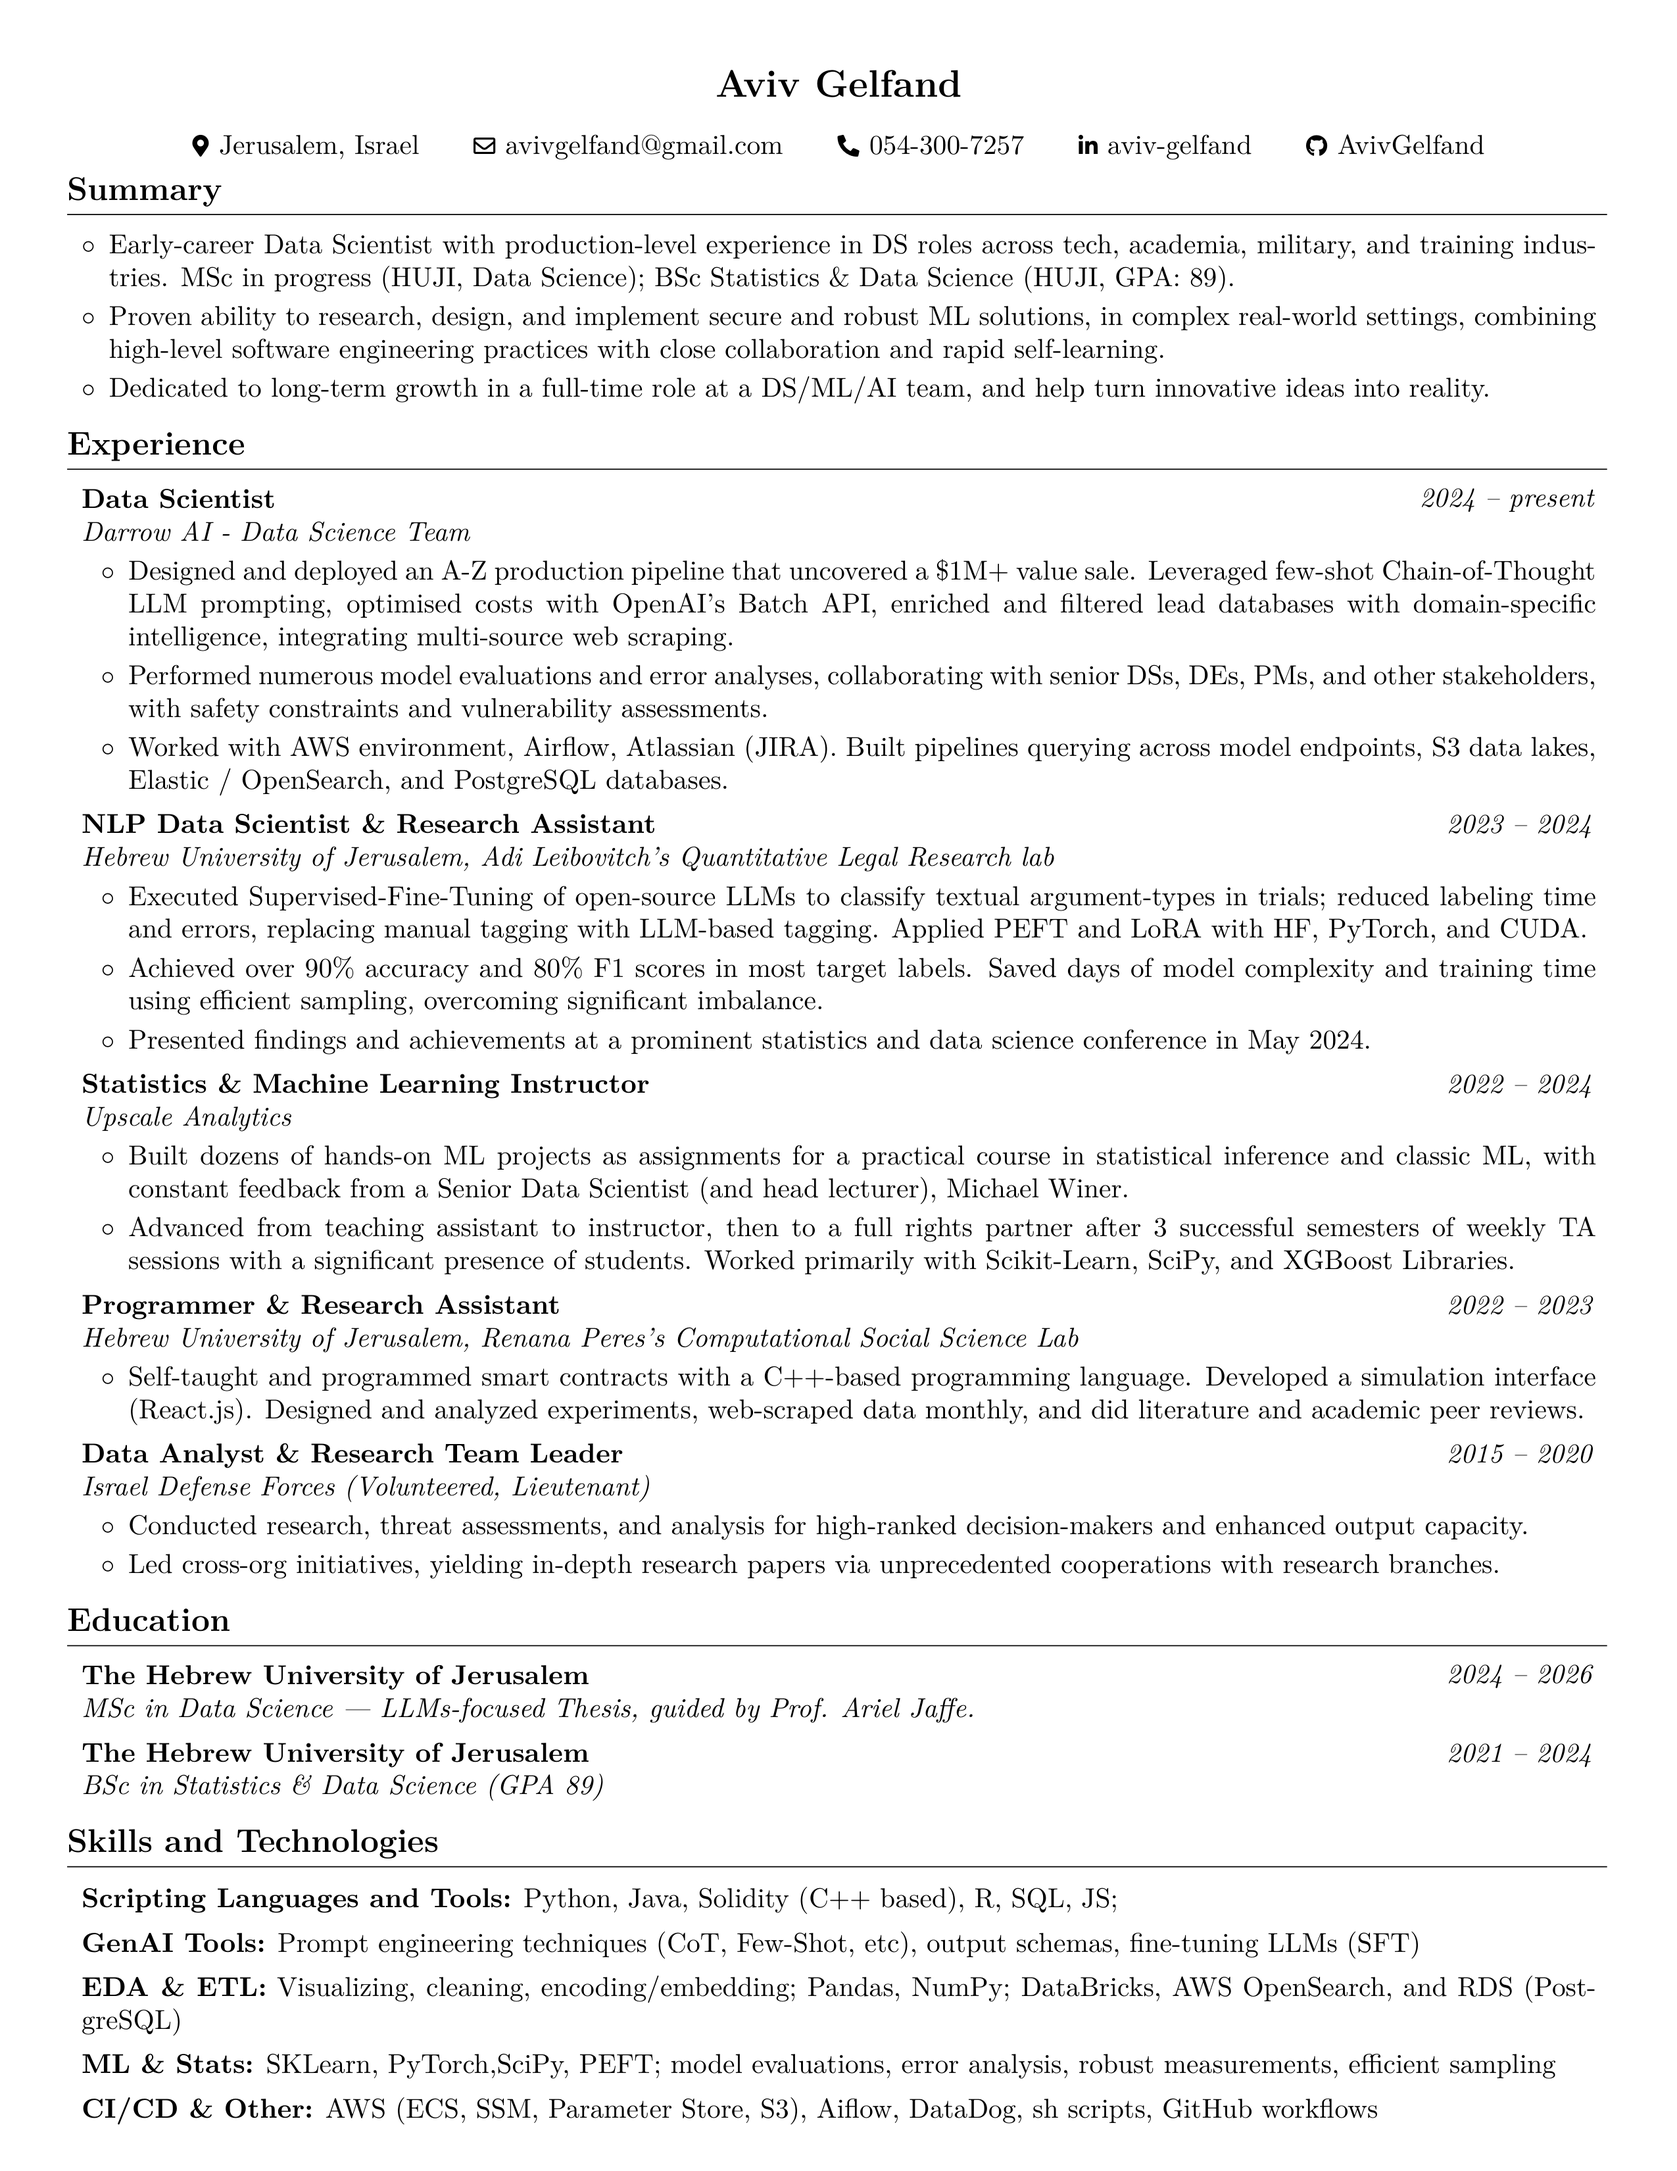
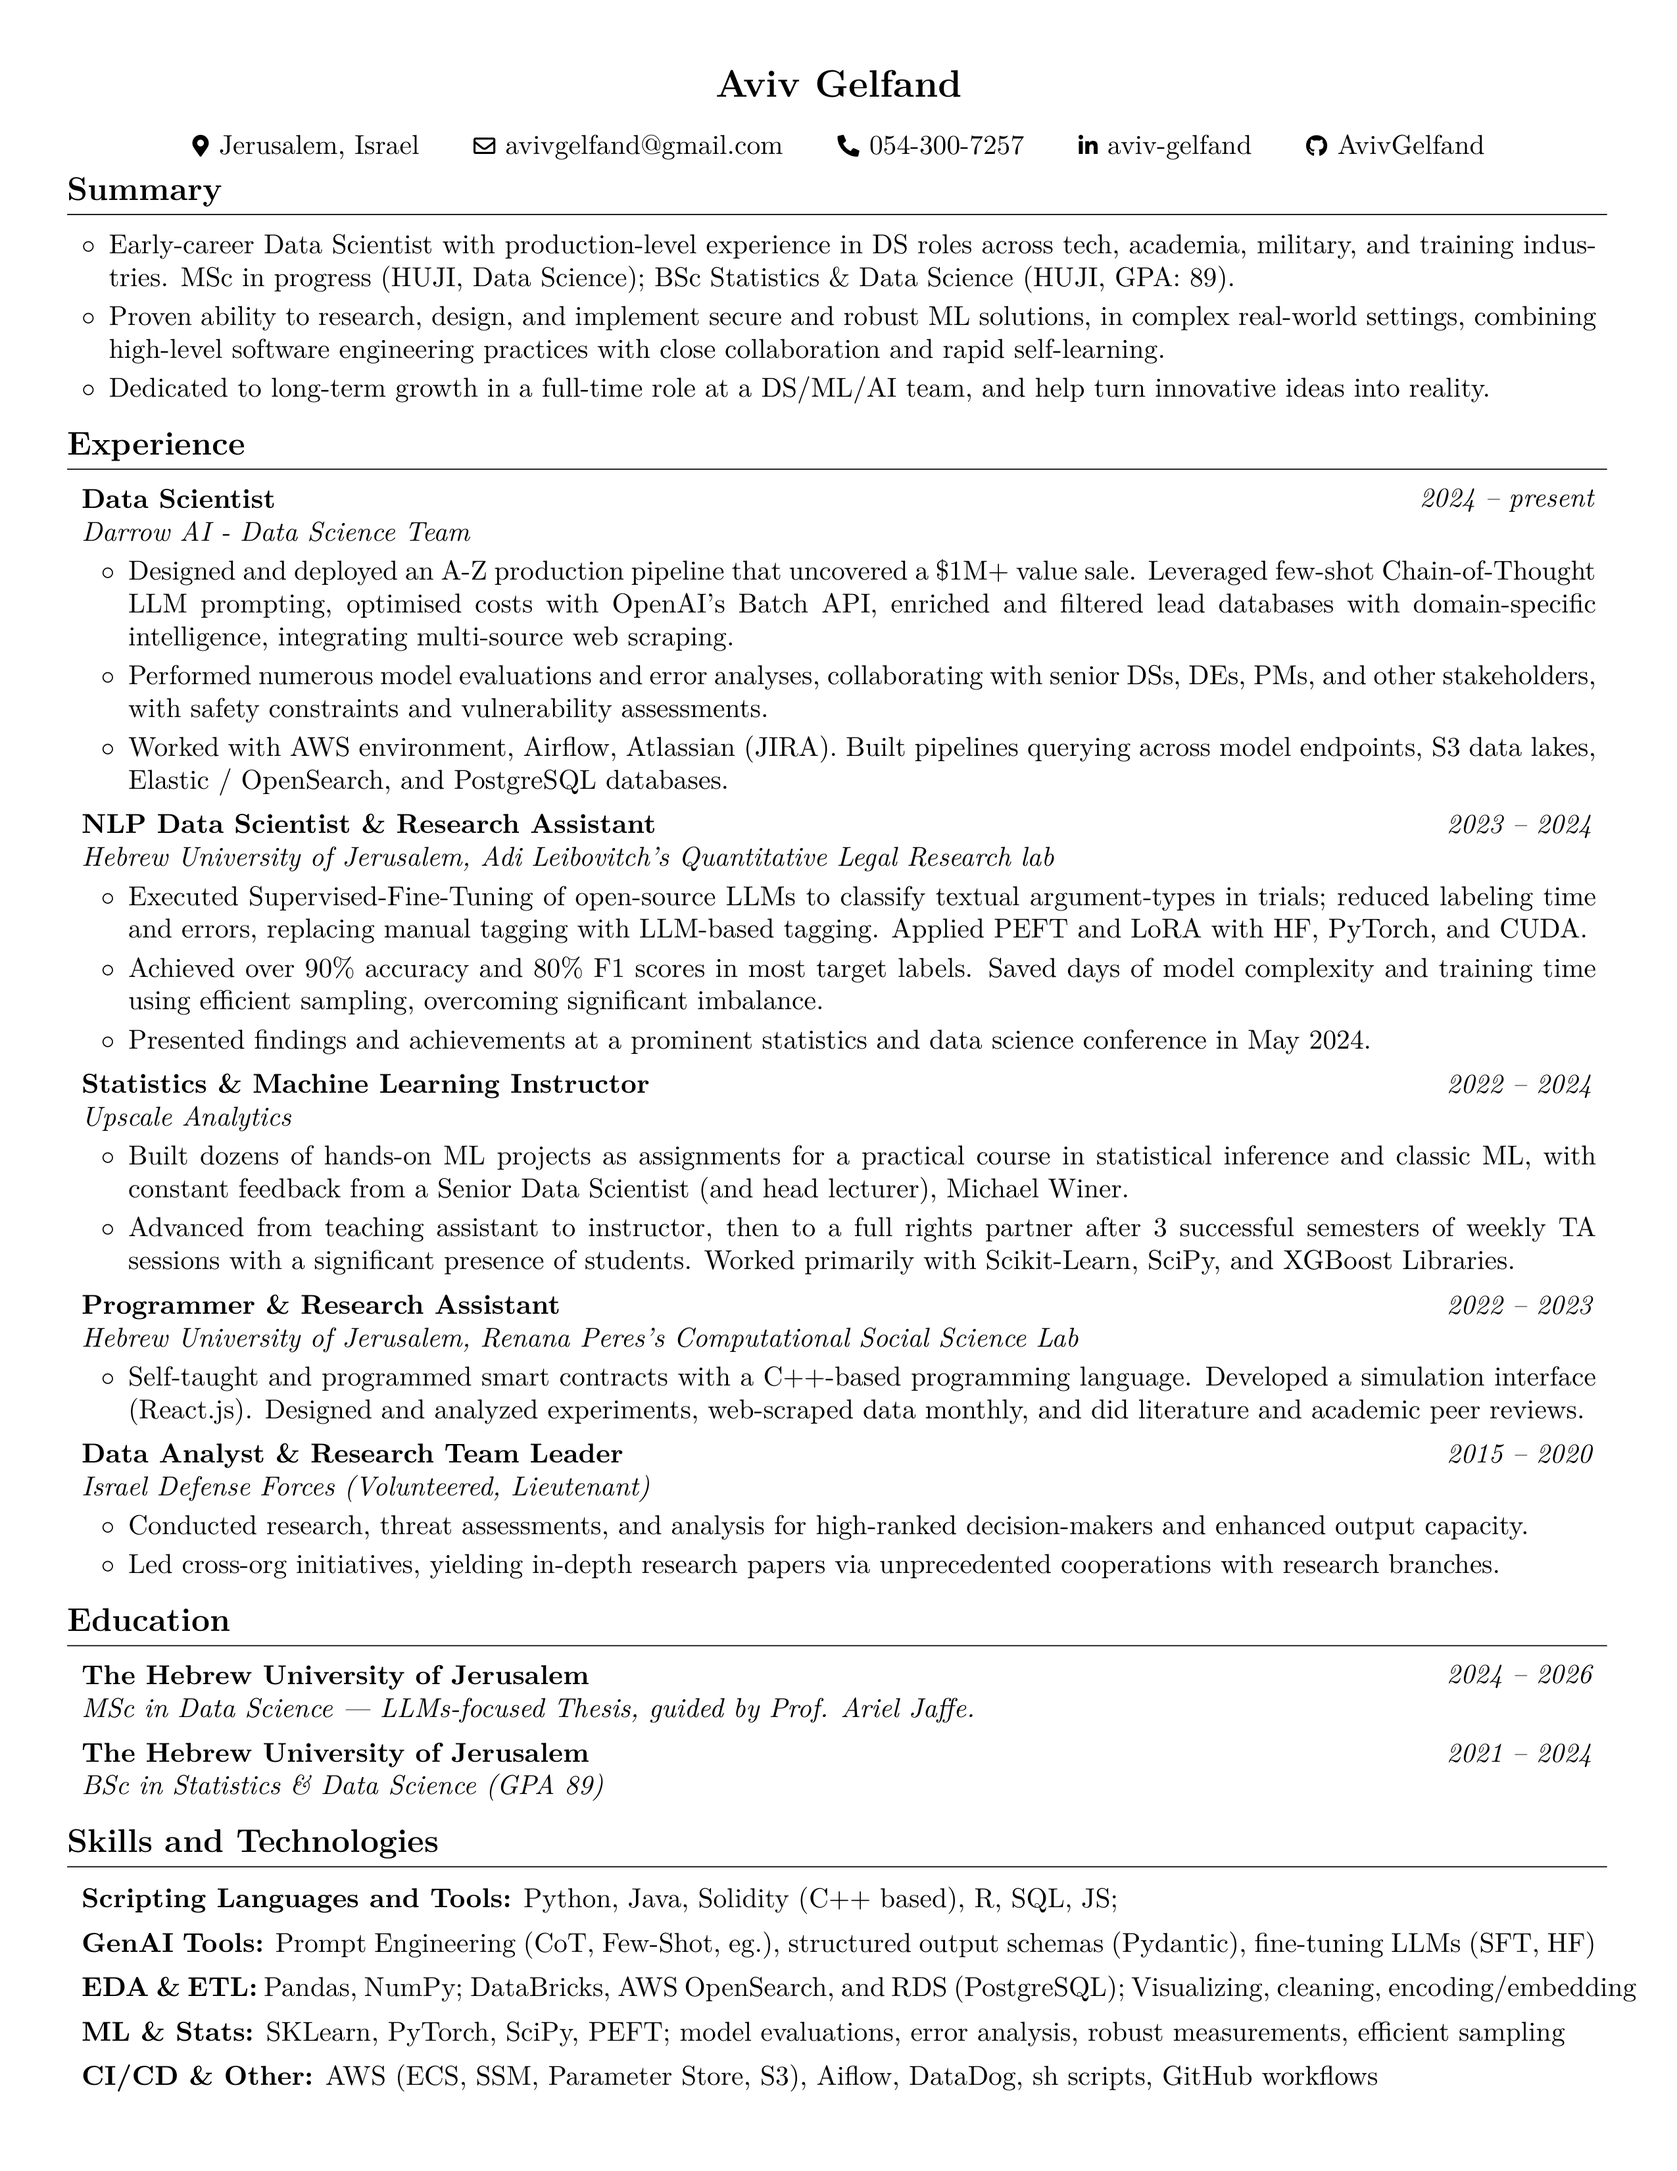
Render the latest CV

Changed region(s): [[0.062, 0.8739, 0.9604, 0.9676]]

diff --git a/Aviv_Gelfand_CV.html b/Aviv_Gelfand_CV.html
@@ -90,9 +90,9 @@
         <h1>Skills and Technologies</h1>
         <ul>
         <li>Scripting Languages and Tools: Python, Java, Solidity (C++ based), R, SQL, JS;</li>
-        <li>GenAI Tools: Prompt engineering techniques (CoT, Few-Shot, etc), output schemas, fine-tuning LLMs (SFT)</li>
-        <li>EDA &amp; ETL: Visualizing, cleaning, encoding/embedding; Pandas, NumPy; DataBricks, AWS OpenSearch, and RDS (PostgreSQL)</li>
-        <li>ML &amp; Stats: SKLearn, PyTorch,SciPy, PEFT; model evaluations, error analysis, robust measurements, efficient sampling</li>
+        <li>GenAI Tools: Prompt Engineering (CoT, Few-Shot, eg.), structured output schemas (Pydantic), fine-tuning LLMs (SFT, HF)</li>
+        <li>EDA &amp; ETL: Pandas, NumPy; DataBricks, AWS OpenSearch, and RDS (PostgreSQL); Visualizing, cleaning, encoding/embedding</li>
+        <li>ML &amp; Stats: SKLearn, PyTorch, SciPy, PEFT; model evaluations, error analysis, robust measurements, efficient sampling</li>
         <li>CI/CD &amp; Other: AWS (ECS, SSM, Parameter Store, S3), Aiflow, DataDog, sh scripts, GitHub workflows</li>
         </ul>
     </article>

diff --git a/Aviv_Gelfand_CV.tex b/Aviv_Gelfand_CV.tex
@@ -340,19 +340,19 @@
         \vspace{0.15 cm}
 
         \begin{onecolentry}
-            \textbf{GenAI Tools:} Prompt engineering techniques (CoT, Few-Shot, etc), output schemas, fine-tuning LLMs (SFT)
+            \textbf{GenAI Tools:} Prompt Engineering (CoT, Few-Shot, eg.), structured output schemas (Pydantic), fine-tuning LLMs (SFT, HF)
         \end{onecolentry}
 
         \vspace{0.15 cm}
 
         \begin{onecolentry}
-            \textbf{EDA \& ETL:} Visualizing, cleaning, encoding/embedding; Pandas, NumPy; DataBricks, AWS OpenSearch, and RDS (PostgreSQL)
+            \textbf{EDA \& ETL:} Pandas, NumPy; DataBricks, AWS OpenSearch, and RDS (PostgreSQL); Visualizing, cleaning, encoding/embedding
         \end{onecolentry}
 
         \vspace{0.15 cm}
 
         \begin{onecolentry}
-            \textbf{ML \& Stats:} SKLearn, PyTorch,SciPy, PEFT; model evaluations, error analysis, robust measurements, efficient sampling
+            \textbf{ML \& Stats:} SKLearn, PyTorch, SciPy, PEFT; model evaluations, error analysis, robust measurements, efficient sampling
         \end{onecolentry}
 
         \vspace{0.15 cm}

diff --git a/README.md b/README.md
@@ -60,7 +60,7 @@
 # Skills and Technologies
 
 - Scripting Languages and Tools: Python, Java, Solidity (C++ based), R, SQL, JS;
-- GenAI Tools: Prompt engineering techniques (CoT, Few-Shot, etc), output schemas, fine-tuning LLMs (SFT)
-- EDA & ETL: Visualizing, cleaning, encoding/embedding; Pandas, NumPy; DataBricks, AWS OpenSearch, and RDS (PostgreSQL)
-- ML & Stats: SKLearn, PyTorch,SciPy, PEFT; model evaluations, error analysis, robust measurements, efficient sampling
+- GenAI Tools: Prompt Engineering (CoT, Few-Shot, eg.), structured output schemas (Pydantic), fine-tuning LLMs (SFT, HF)
+- EDA & ETL: Pandas, NumPy; DataBricks, AWS OpenSearch, and RDS (PostgreSQL); Visualizing, cleaning, encoding/embedding
+- ML & Stats: SKLearn, PyTorch, SciPy, PEFT; model evaluations, error analysis, robust measurements, efficient sampling
 - CI/CD & Other: AWS (ECS, SSM, Parameter Store, S3), Aiflow, DataDog, sh scripts, GitHub workflows
